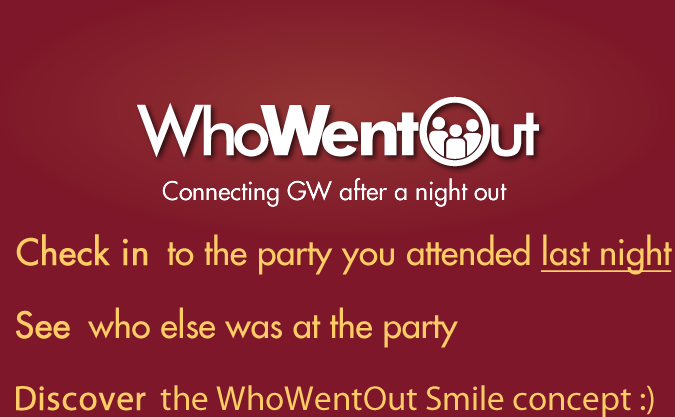
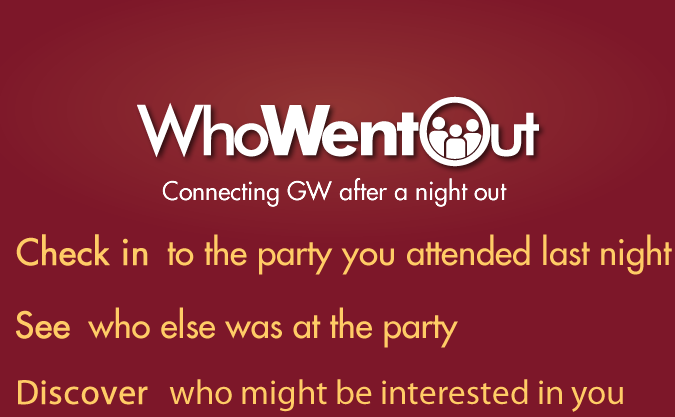
changed homepage message from discover the smile to discover who might be interested in you

Changed region(s): [[0.0, 0.9041, 0.9956, 1.0], [0.8089, 0.6235, 0.9956, 0.6547]]

diff --git a/whowentout/modules/whowentout_website/views/homepage.view.php b/whowentout/modules/whowentout_website/views/homepage.view.php
@@ -22,7 +22,7 @@
 <body id="<?= body_id() ?>">
 
 <div id="homepage_message">
-    <img src="/assets/images/homepage.png?version=3" />
+    <img src="/assets/images/homepage.png?version=4" />
     <a id="enter_button" href="/login">Enter</a>
 </div>
 
